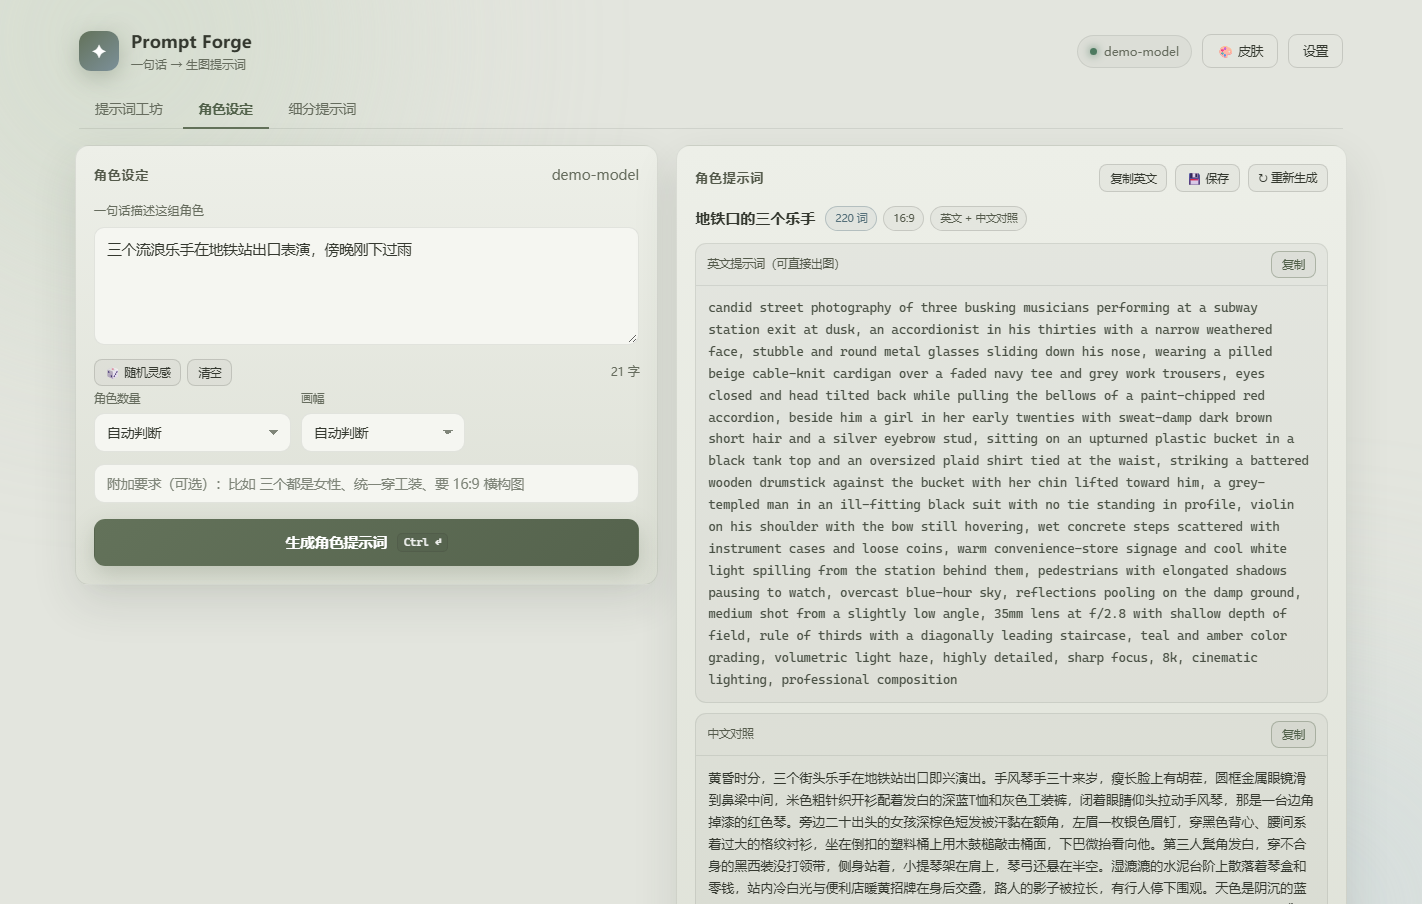
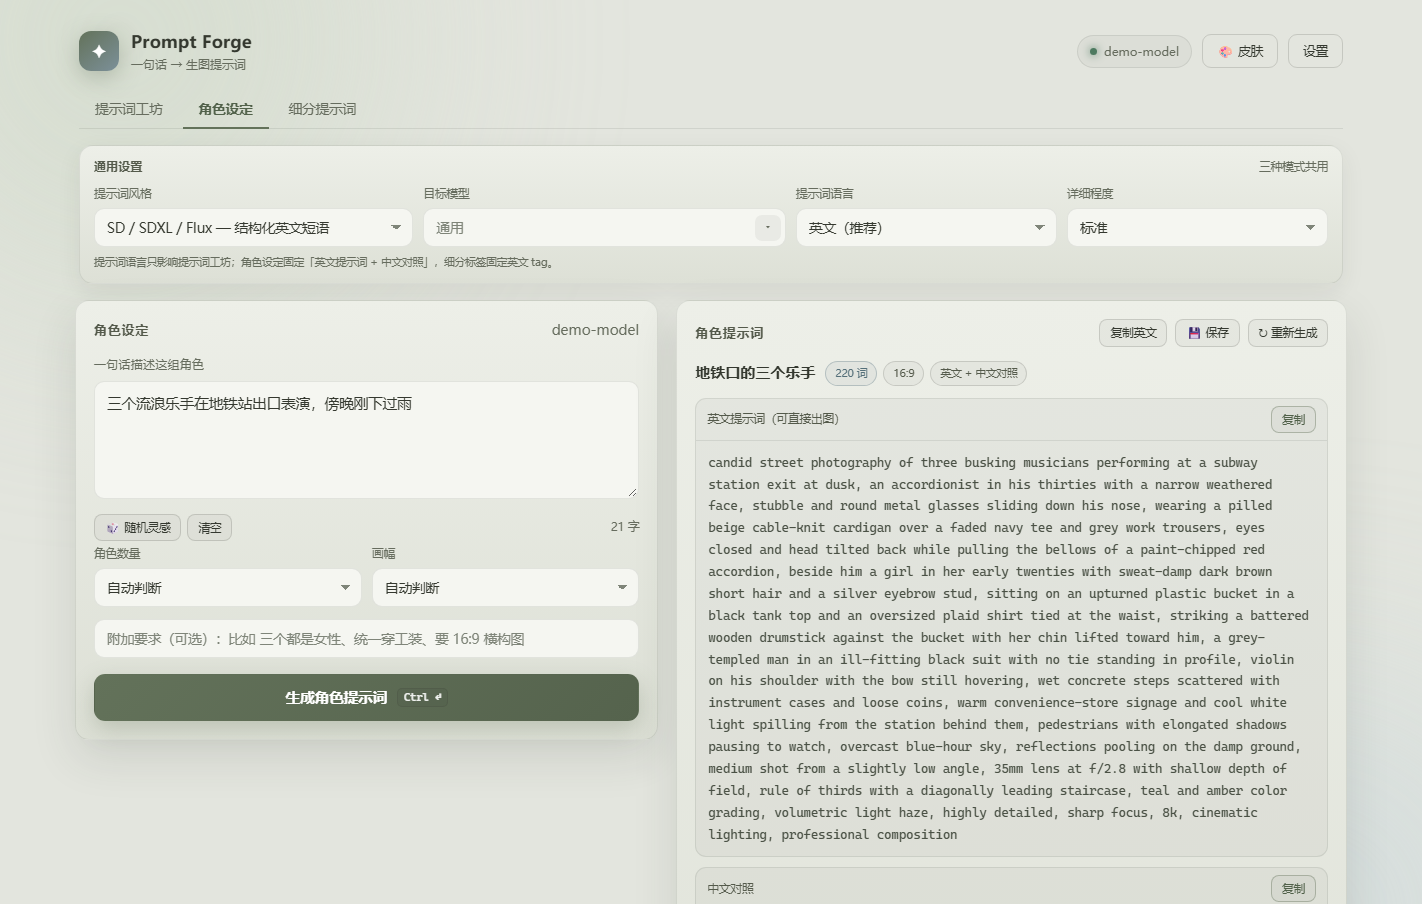
feat: share generation settings across all three modes
- move style, target model, language and detail above the tabs into a global bar
- character generation now honors style/target/detail; segment generation honors style too
- keep language prompt-only and document it in the bar
- saved segments remember style/target; screenshots refreshed
- UI regression suite: 282 assertions

diff --git a/src/public/app.js b/src/public/app.js
@@ -1133,6 +1133,7 @@ function loadSavedPrompt(meta, fallbackTitle) {
   };
   S.style = STYLES.some((x) => x.id === meta.style) ? meta.style : 'sd';
   $('#styleSelect').value = S.style;
+  if (meta.targetModel) $('#targetModel').value = meta.targetModel;
   if (meta.sentence) {
     $('#sentence').value = meta.sentence;
     refreshCounter();
@@ -1193,6 +1194,9 @@ function loadSavedSegment(meta, fallbackTitle) {
   S.segType = type;
   document.querySelectorAll('#segTypeChips .chip').forEach((c) => c.classList.toggle('active', c.dataset.id === type));
 
+  const savedStyle = STYLES.some((x) => x.id === meta.style) ? meta.style : S.style;
+  S.style = savedStyle;
+  $('#styleSelect').value = savedStyle;
   S.segData = d;
   S.segSentence = str(meta.sentence);
   S.segStack = [d];
@@ -1200,6 +1204,7 @@ function loadSavedSegment(meta, fallbackTitle) {
     sentence: S.segSentence,
     type,
     targetModel: str(meta.targetModel),
+    style: savedStyle,
     at: Date.now(),
     historyAt: null,
   };
@@ -1209,8 +1214,8 @@ function loadSavedSegment(meta, fallbackTitle) {
     $('#segSentence').value = S.segSentence;
     refreshCounter();
   }
-  if (meta.targetModel && [...$('#segTarget').options].some((o) => o.value === meta.targetModel)) {
-    $('#segTarget').value = meta.targetModel;
+  if (meta.targetModel) {
+    $('#targetModel').value = meta.targetModel;
   }
 
   switchView('segment');
@@ -1380,18 +1385,26 @@ function restoreHistoryEntry(h) {
     const type = SEG_TYPES.some((t) => t.id === h.segmentType) ? h.segmentType : 'outfit';
     S.segType = type;
     document.querySelectorAll('#segTypeChips .chip').forEach((c) => c.classList.toggle('active', c.dataset.id === type));
+    const savedStyle = STYLES.some((x) => x.id === h.style) ? h.style : S.style;
+    S.style = savedStyle;
+    $('#styleSelect').value = savedStyle;
     S.segData = d;
     S.segSentence = h.sentence || '';
     S.segStack = [d];
-    S.segMeta = { sentence: S.segSentence, type, targetModel: h.targetModel || '', at: h.at, historyAt: h.at };
+    S.segMeta = {
+      sentence: S.segSentence,
+      type,
+      targetModel: h.targetModel || '',
+      style: savedStyle,
+      at: h.at,
+      historyAt: h.at,
+    };
     S.segText = d.tags;
     if (S.segSentence) {
       $('#segSentence').value = S.segSentence;
       refreshCounter();
     }
-    if (h.targetModel && [...$('#segTarget').options].some((o) => o.value === h.targetModel)) {
-      $('#segTarget').value = h.targetModel;
-    }
+    if (h.targetModel) $('#targetModel').value = h.targetModel;
     switchView('segment');
     renderSegment(d);
     closeDrawer();
@@ -1669,6 +1682,9 @@ async function refineCharacter(instructionArg) {
       body: JSON.stringify({
         instruction,
         previous: { prompt_en: cur.en, prompt_zh: cur.zh, aspect: cur.aspect },
+        style: S.style,
+        targetModel: $('#targetModel').value.trim(),
+        detail: $('#detail').value,
       }),
       signal: S.charAbort.signal,
     });
@@ -1772,6 +1788,9 @@ async function generateCharacters() {
         extra: $('#charExtra').value.trim(),
         count: $('#charCount').value,
         aspect: $('#charAspect').value,
+        style: S.style,
+        targetModel: $('#targetModel').value.trim(),
+        detail: $('#detail').value,
       }),
       signal: S.charAbort.signal,
     });
@@ -1920,8 +1939,9 @@ async function generateSegment() {
       body: JSON.stringify({
         sentence,
         segmentType: S.segType,
-        targetModel: $('#segTarget').value,
-        detail: $('#segDetail').value,
+        targetModel: $('#targetModel').value.trim(),
+        detail: $('#detail').value,
+        style: S.style,
         extra: $('#segExtra').value.trim(),
       }),
       signal: S.segAbort.signal,
@@ -1975,7 +1995,8 @@ async function generateSegment() {
     S.segMeta = {
       sentence,
       type: S.segType,
-      targetModel: $('#segTarget').value,
+      targetModel: $('#targetModel').value.trim(),
+      style: S.style,
       at: Date.now(),
       historyAt: null,
     };
@@ -2017,7 +2038,7 @@ function renderSegment(d) {
   $('#segStream').hidden = true;
   wrap.hidden = false;
 
-  const meta = S.segMeta || { type: S.segType, targetModel: $('#segTarget').value };
+  const meta = S.segMeta || { type: S.segType, targetModel: $('#targetModel').value.trim(), style: S.style };
   const type = SEG_TYPES.some((t) => t.id === meta.type) ? meta.type : 'outfit';
 
   const head = document.createElement('div');
@@ -2065,6 +2086,8 @@ function segmentMarkdown() {
   const lines = [];
   if (meta.sentence) lines.push(`> 原始描述：${meta.sentence}`);
   lines.push(`> 细分类型：${segTypeLabel(meta.type)}`);
+  const style = STYLES.find((x) => x.id === meta.style);
+  if (style) lines.push(`> 提示词风格：${style.label}`);
   if (meta.targetModel && meta.targetModel !== '通用') lines.push(`> 目标模型：${meta.targetModel}`);
 
   lines.push('', '## 标签组合', '', d.tags || '');
@@ -2081,6 +2104,7 @@ function pushSegmentHistory() {
     sentence: meta.sentence || S.segSentence || '',
     segmentType: meta.type || S.segType,
     targetModel: meta.targetModel || '',
+    style: meta.style || S.style,
     title: d.title || '细分标签',
     tags: d.tags || '',
     translation: d.translation || '',
@@ -2102,6 +2126,7 @@ function updateSegmentHistoryEntry() {
   h.tags = d.tags || h.tags;
   h.translation = d.translation || '';
   h.keywords = d.keywords || [];
+  h.style = S.segMeta?.style || h.style;
   saveHistory();
 }
 
@@ -2152,7 +2177,8 @@ async function refineSegment(instructionArg) {
         instruction,
         previous: { tags: cur.tags, translation: cur.translation },
         segmentType: S.segMeta?.type || S.segType,
-        targetModel: S.segMeta?.targetModel || $('#segTarget').value,
+        targetModel: S.segMeta?.targetModel || $('#targetModel').value.trim(),
+        style: S.segMeta?.style || S.style,
       }),
       signal: S.segAbort.signal,
     });
@@ -2553,6 +2579,7 @@ function bind() {
       sentence: meta.sentence || S.segSentence || '',
       segmentType: meta.type || S.segType,
       targetModel: meta.targetModel || '',
+      style: meta.style || S.style,
       tags: d.tags || '',
       translation: d.translation || '',
       keywords: d.keywords || [],

diff --git a/src/public/index.html b/src/public/index.html
@@ -49,6 +49,46 @@
       <button class="tab" data-view="segment" type="button">细分提示词</button>
     </nav>
 
+    <!-- ============ 通用设置（三栏之外） ============ -->
+    <section class="global-opts" id="globalOpts" aria-label="通用生成设置">
+      <div class="global-head">
+        <span class="global-title">通用设置</span>
+        <span class="dim small">三种模式共用</span>
+      </div>
+      <div class="global-grid">
+        <div class="opt">
+          <label for="styleSelect">提示词风格</label>
+          <select id="styleSelect"></select>
+        </div>
+        <div class="opt">
+          <label for="targetModel">目标模型</label>
+          <div class="combo compact" id="targetCombo">
+            <input id="targetModel" placeholder="通用" autocomplete="off" role="combobox"
+              aria-expanded="false" aria-controls="targetModelList" aria-autocomplete="list" spellcheck="false" />
+            <button class="combo-toggle" type="button" id="btnToggleTarget" aria-label="展开目标模型列表"
+              tabindex="-1">▾</button>
+            <div class="combo-list" id="targetModelList" role="listbox" hidden></div>
+          </div>
+        </div>
+        <div class="opt">
+          <label for="language">提示词语言</label>
+          <select id="language">
+            <option value="en">英文（推荐）</option>
+            <option value="zh">中文</option>
+          </select>
+        </div>
+        <div class="opt">
+          <label for="detail">详细程度</label>
+          <select id="detail">
+            <option value="short">精简</option>
+            <option value="standard" selected>标准</option>
+            <option value="rich">丰富</option>
+          </select>
+        </div>
+      </div>
+      <p class="global-note">提示词语言只影响提示词工坊；角色设定固定「英文提示词 + 中文对照」，细分标签固定英文 tag。</p>
+    </section>
+
     <!-- ============ 提示词工坊 ============ -->
     <main class="grid" id="viewPrompt">
       <section class="panel composer">
@@ -74,38 +114,6 @@
             <button class="btn tiny ghost" id="btnIdeaClose" type="button">收起</button>
           </div>
           <div class="idea-chips" id="ideaChips"></div>
-        </div>
-
-        <div class="opts four">
-          <div class="opt">
-            <label for="styleSelect">提示词风格</label>
-            <select id="styleSelect"></select>
-          </div>
-          <div class="opt">
-            <label for="targetModel">目标模型</label>
-            <div class="combo compact" id="targetCombo">
-              <input id="targetModel" placeholder="通用" autocomplete="off" role="combobox"
-                aria-expanded="false" aria-controls="targetModelList" aria-autocomplete="list" spellcheck="false" />
-              <button class="combo-toggle" type="button" id="btnToggleTarget" aria-label="展开目标模型列表"
-                tabindex="-1">▾</button>
-              <div class="combo-list" id="targetModelList" role="listbox" hidden></div>
-            </div>
-          </div>
-          <div class="opt">
-            <label for="language">提示词语言</label>
-            <select id="language">
-              <option value="en">英文（推荐）</option>
-              <option value="zh">中文</option>
-            </select>
-          </div>
-          <div class="opt">
-            <label for="detail">详细程度</label>
-            <select id="detail">
-              <option value="short">精简</option>
-              <option value="standard" selected>标准</option>
-              <option value="rich">丰富</option>
-            </select>
-          </div>
         </div>
 
         <input id="extra" class="extra-input" placeholder="附加要求（可选）：比如 竖构图、胶片颗粒、不要出现人物…"
@@ -246,7 +254,7 @@
           <div class="idea-chips" id="charIdeaChips"></div>
         </div>
 
-        <div class="opts">
+        <div class="opts two">
           <div class="opt">
             <label for="charCount">角色数量</label>
             <select id="charCount">
@@ -342,28 +350,6 @@
 
         <div class="field-label">只生成哪一类标签</div>
         <div class="chips" id="segTypeChips"></div>
-
-        <div class="opts two">
-          <div class="opt">
-            <label for="segTarget">目标模型</label>
-            <select id="segTarget">
-              <option value="通用" selected>通用</option>
-              <option value="SDXL">SDXL</option>
-              <option value="Stable Diffusion 1.5">Stable Diffusion 1.5</option>
-              <option value="Flux.1">Flux.1</option>
-              <option value="NovelAI V4">NovelAI V4</option>
-              <option value="Midjourney v6.1">Midjourney v6.1</option>
-            </select>
-          </div>
-          <div class="opt">
-            <label for="segDetail">标签数量</label>
-            <select id="segDetail">
-              <option value="short">精简</option>
-              <option value="standard" selected>标准</option>
-              <option value="rich">丰富</option>
-            </select>
-          </div>
-        </div>
 
         <input id="segExtra" class="extra-input"
           placeholder="附加要求（可选）：比如 只写秋冬、不要配饰、偏赛博朋克" autocomplete="off" />

diff --git a/src/public/styles.css b/src/public/styles.css
@@ -375,6 +375,52 @@ body {
   font-weight: 600;
 }
 
+/* ---------- 通用设置（三个模式共用，位于三栏之外） ---------- */
+.global-opts {
+  margin: 0 4px 16px;
+  padding: 12px 14px;
+  background: linear-gradient(180deg, var(--panel), var(--panel-3));
+  border: 1px solid var(--line);
+  border-radius: var(--radius);
+  box-shadow: 0 8px 24px var(--shadow-sm);
+}
+
+.global-head {
+  display: flex;
+  align-items: baseline;
+  justify-content: space-between;
+  gap: 12px;
+  margin-bottom: 8px;
+}
+
+.global-title {
+  font-size: 11.5px;
+  font-weight: 600;
+  letter-spacing: .05em;
+  color: var(--text-2);
+}
+
+.global-grid {
+  display: grid;
+  grid-template-columns: 1.1fr 1.25fr .9fr .9fr;
+  gap: 10px;
+}
+
+.global-grid>.opt {
+  min-width: 0;
+}
+
+.global-grid select {
+  max-width: 100%;
+}
+
+.global-note {
+  margin: 8px 0 0;
+  font-size: 10.5px;
+  line-height: 1.5;
+  color: var(--dim);
+}
+
 /* ---------- 布局：左右两栏 ---------- */
 .grid {
   display: grid;
@@ -497,12 +543,6 @@ select {
 
 .opts.two {
   grid-template-columns: 1fr 1fr;
-}
-
-/* 提示词风格 / 目标模型 / 语言 / 详细程度：2×2 排布 */
-.opts.four {
-  grid-template-columns: 1fr 1fr;
-  margin-top: 14px;
 }
 
 .seg-note {
@@ -1896,6 +1936,10 @@ select {
     grid-template-columns: 1fr;
   }
 
+  .global-grid {
+    grid-template-columns: 1fr 1fr;
+  }
+
   .result {
     min-height: 360px;
   }
@@ -1907,9 +1951,16 @@ select {
 
 @media (max-width: 560px) {
   .opts,
-  .opts.two,
-  .opts.four {
+  .opts.two {
     grid-template-columns: 1fr;
+  }
+
+  .global-grid {
+    grid-template-columns: 1fr;
+  }
+
+  .global-opts {
+    padding: 10px 12px;
   }
 
   .pinbox-body {
